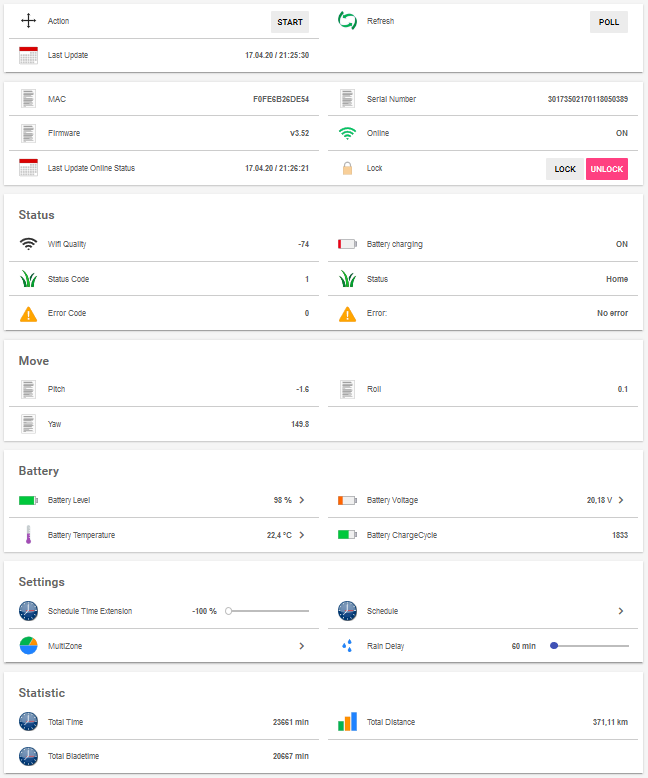
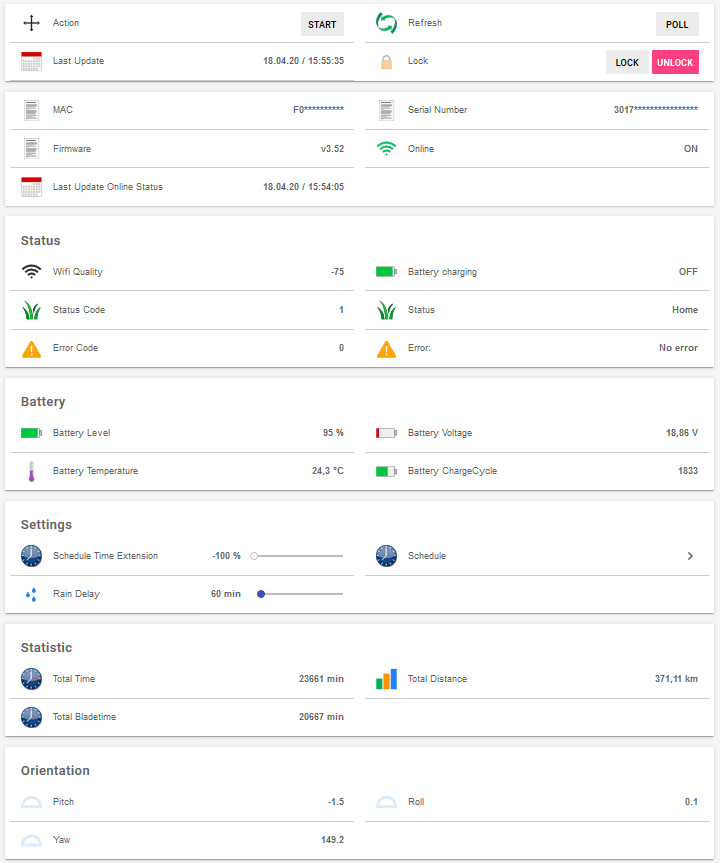
Rework
- fixed Orientation
- replaced Image to show Orientation

diff --git a/README.md b/README.md
@@ -364,6 +364,7 @@ sitemap landroid label="Landroid"
             Switch item=LandroidLock label="Lock" mappings=[ON="LOCK",OFF="UNLOCK"]
         }
         Frame {
+            Text item=LandroidMacAdress
             Text item=LandroidSerialNumber
             Text item=LandroidFirmware
             Text item=LandroidOnline //mappings=[OFF="Offline", ON="Online"]
@@ -436,7 +437,12 @@ sitemap landroid label="Landroid"
             Text item=LandroidTotalDistance label="Total Distance [%.2f km]"
             Text item=LandroidTotalBladeTime
         }
-    }
+		Frame label="Orientation"{
+			Text item=LandroidPitch
+			Text item=LandroidRoll
+			Text item=LandroidYaw
+		}
+   }
 }
 ```
 
